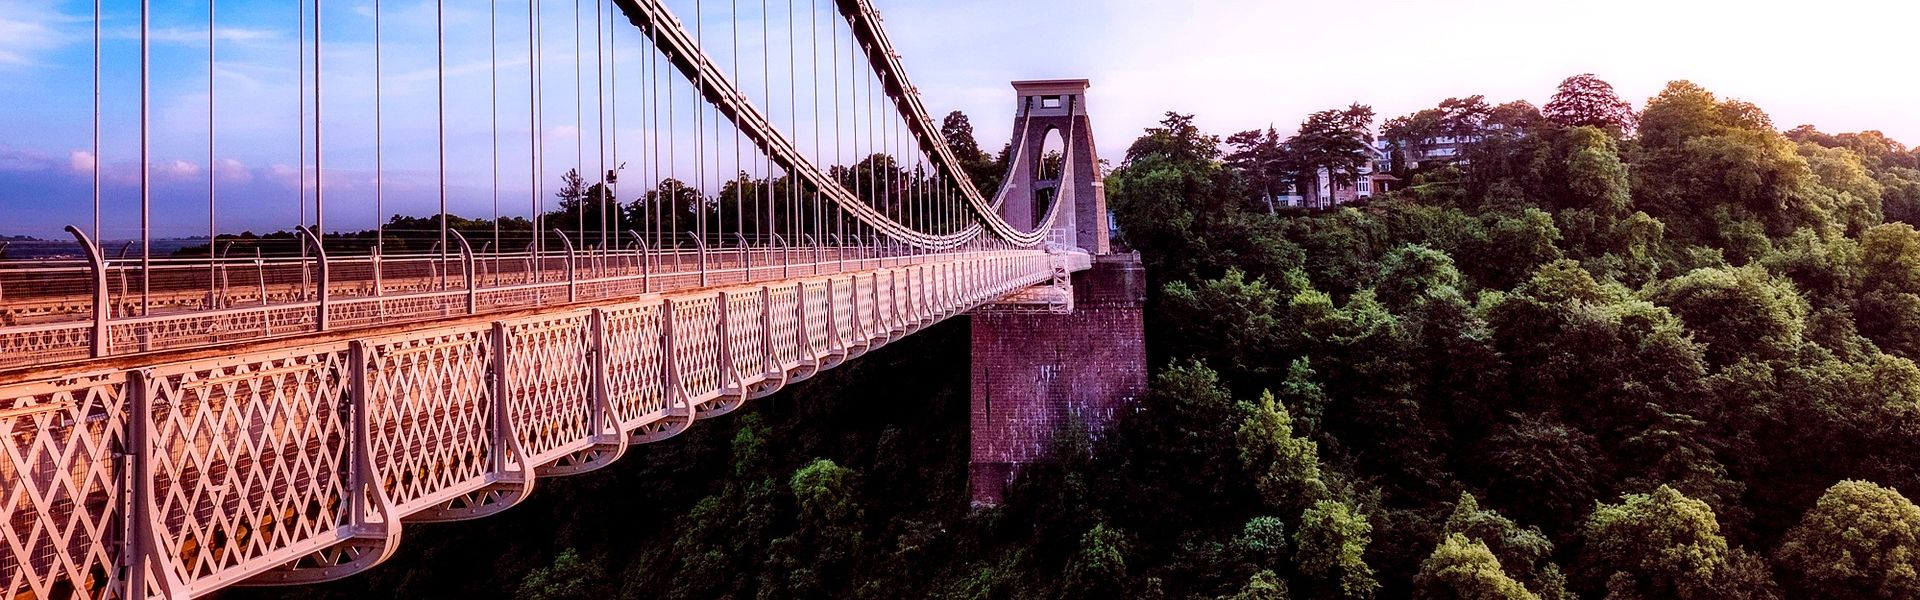
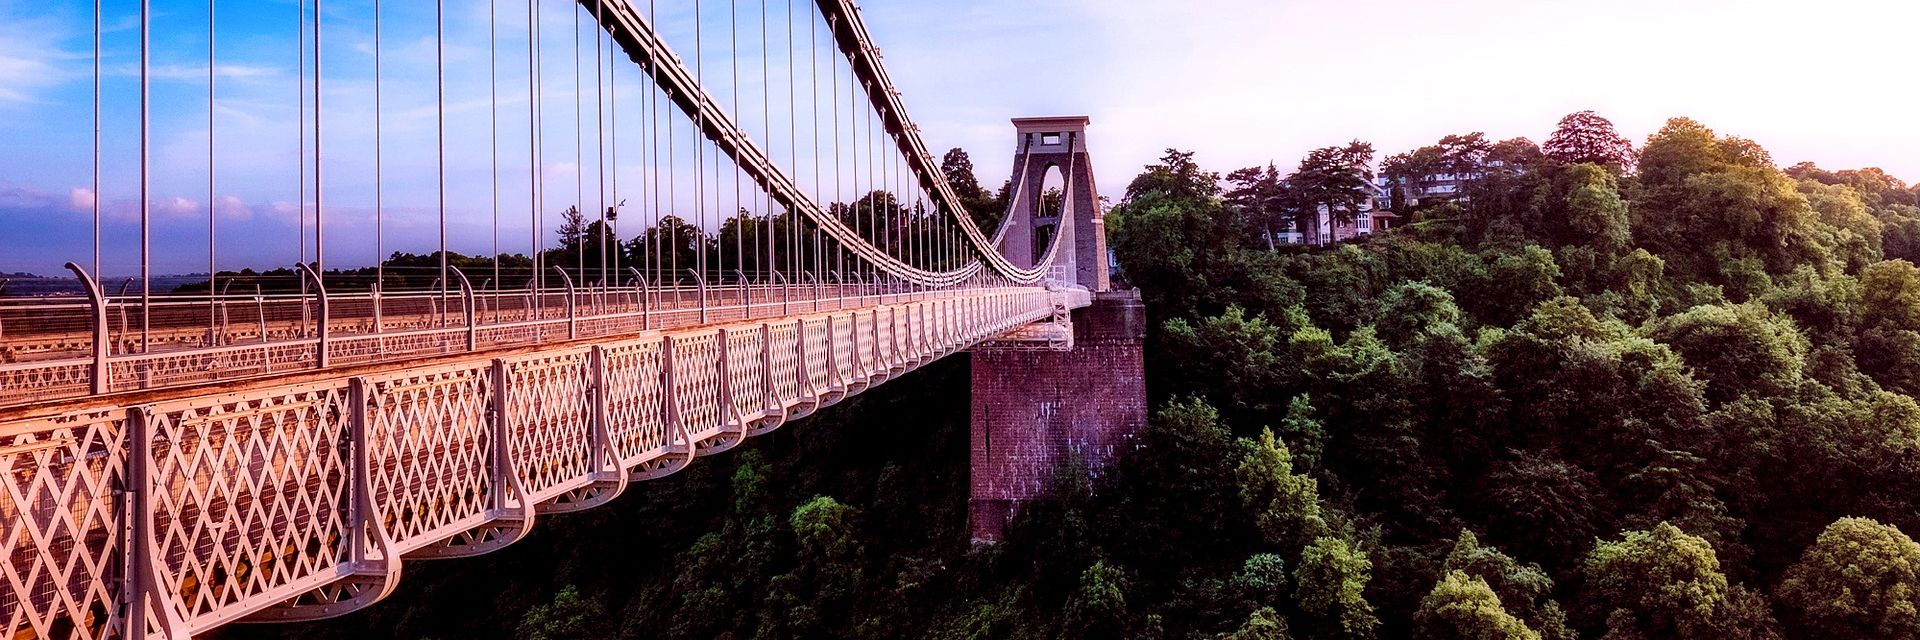
Second attempt at cropping

diff --git a/src/app.css b/src/app.css
@@ -9,12 +9,21 @@ body {
   color: #333;
 }
 
+body, html {
+  height: 100%;
+}
+
+.container {
+  height: 100%;
+}
+
+
 .hero {
   background-image: url("bg.jpg");
   background-position: center center;
   background-repeat: no-repeat;
   background-size: cover;
-  height: 600px;
+  height: 50%;
   display: flex;
   align-items: flex-end;
   justify-content: flex-end;
